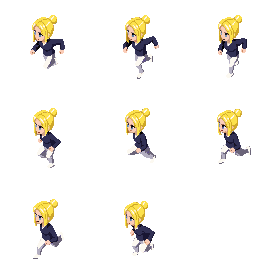
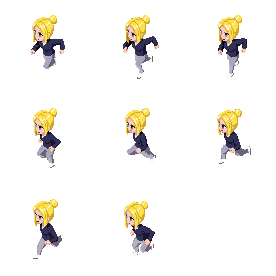
sector 3 changes

diff --git a/src/render.cpp b/src/render.cpp
@@ -27,6 +27,7 @@ std::unordered_map<uint32_t, int> randomOffsetsTrees;
 std::unordered_map<uint32_t, int> randomOffsetsGround;
 // key, index of decoration. You need to know key to SpritesheetConfig. Else wrong texture, jsut random index of spritesheet.
 std::unordered_map<uint32_t, int> decorationIndexMap;
+std::unordered_set<uint32_t> sector3Cutouts;
 // std::unordered_map<uint32_t, int> vineDecorationIndexMap;
 // Per-tile, per-row random spritesheet frame index to avoid cross-category leakage.
 static std::unordered_map<uint32_t, std::array<int, ssi::maxSideLength>> spritesheetIndexMap;
@@ -58,7 +59,7 @@ static const SDL_FRect& get_cached_spritesheet_src(int col, int row) {
 static SDL_FRect get_wall_spritesheet_src(int index) {
     const float w = 144.0f;
     const float h = 144.0f;
-    int c = std::max(0, index % 10);
+    int c = std::max(0, index % 14);
     return SDL_FRect{ static_cast<float>(c) * w, 0.0f, w, h };
 }
 
@@ -289,7 +290,7 @@ void TerrainClass::create_renderQ_walls() {
                     alpha = inFrontAlpha;
                 }
 
-                int idx = ensure_spritesheet_index_for_row(gridPos, 0, 0, 9);
+                int idx = ensure_spritesheet_index_for_row(gridPos, 0, 0, 14);
                 SDL_FRect src = get_wall_spritesheet_src(idx);
                 renderQueue.push_back(
                     RenderQueueItem(destTile.y + halfTile + 1, src, destTile, &textureMap[Map::WALL_SPRITESHEET], alpha)
@@ -299,16 +300,20 @@ void TerrainClass::create_renderQ_walls() {
             case Map::SECTOR_1_WALL_VAL: {
                 destTile.y -= halfTile;
 
-                int idx = ensure_spritesheet_index_for_row(gridPos, 5, 0, 5);
-                const SDL_FRect& src = get_cached_spritesheet_src(idx, 5);
+                // int idx = ensure_spritesheet_index_for_row(gridPos, 5, 0, 5);
+                // const SDL_FRect& src = get_cached_spritesheet_src(idx, 5);
 
                 if (shiftedWalls.find(key) != shiftedWalls.end()) {
                     alpha = inFrontAlpha;
                 }
-
+                int idx = ensure_spritesheet_index_for_row(gridPos, 0, 0, 9);
+                const SDL_FRect& src = get_wall_spritesheet_src(idx);
                 renderQueue.push_back(
-                    RenderQueueItem(destTile.y, src, destTile, &textureMap[Map::SPRITESHEET], alpha)
+                    RenderQueueItem(destTile.y, src, destTile, &textureMap[Map::WALL_SPRITESHEET], alpha)
                 );
+                // renderQueue.push_back(
+                //     RenderQueueItem(destTile.y, src, destTile, &textureMap[Map::SPRITESHEET], alpha)
+                // );
                 break;
             }
             case Map::SECTOR_2_WALL_VAL: {
@@ -320,7 +325,7 @@ void TerrainClass::create_renderQ_walls() {
                 destTile.x += (xr / 4);
                 destTile.w -= (xr / 2);
                 destTile.h -= (xr / 2);
-                int idx = ensure_spritesheet_index_for_row(gridPos, 0, 0, 9);
+                int idx = ensure_spritesheet_index_for_row(gridPos, 0, 0, 14);
                 const SDL_FRect& src = get_wall_spritesheet_src(idx);
                 renderQueue.push_back(
                     RenderQueueItem(destTile.y, src, destTile, &textureMap[Map::WALL_SPRITESHEET], alpha)
@@ -328,23 +333,27 @@ void TerrainClass::create_renderQ_walls() {
                 break;
             }
             case Map::SECTOR_3_WALL_VAL: {
-                if (unchangableWalls_S3.find(gridPos) == unchangableWalls_S3.end()) return;
-                // create walls
+                if (unchangableWalls_S3.find(gridPos) == unchangableWalls_S3.end()) break;
+
                 destTile.y -= halfTile;
-                SDL_FRect src;
-                int idx = 0;
-                idx = ensure_spritesheet_index_for_row(gridPos, 0, 0, 9);
-                src = get_wall_spritesheet_src(idx);
-                renderQueue.push_back(
-                    RenderQueueItem(destTile.y, src, destTile, &textureMap[Map::WALL_SPRITESHEET], alpha)
-                );
-                // create random 2nd story walls based on decoration.
+                if (sector3Cutouts.find(key) == sector3Cutouts.end()) {
+                    // simple gravitational support: ensure tile below exists and
+                    // is ground or wall so the cutout won't float
+                    // if (row + 1 >= 0 && row + 1 < mapSize) {
+                    //     // int below = map[row + 1][column];
+                    //     cutoutSupported = true;
+                    // }
+                    int idxTop = ensure_spritesheet_index_for_row(gridPos, 0, 0, 14);
+                    SDL_FRect srcTop = get_wall_spritesheet_src(idxTop);
+                    renderQueue.push_back(RenderQueueItem(destTile.y, srcTop, destTile, &textureMap[Map::WALL_SPRITESHEET], alpha));
+
+                }
+
                 destTile.y -= halfTile;
-                idx = ensure_spritesheet_index_for_row(gridPos, 0, 0, 9);
-                src = get_wall_spritesheet_src(idx);
-                renderQueue.push_back(
-                    RenderQueueItem(destTile.y + halfTile + 1, src, destTile, &textureMap[Map::WALL_SPRITESHEET], alpha)
-                );
+                int idxBot = ensure_spritesheet_index_for_row(gridPos, 0, 0, 14);
+                SDL_FRect srcBot = get_wall_spritesheet_src(idxBot);
+                renderQueue.push_back(RenderQueueItem(destTile.y + halfTile + 1, srcBot, destTile, &textureMap[Map::WALL_SPRITESHEET], alpha));
+
                 break;
             }
             }
@@ -399,12 +408,12 @@ void TerrainClass::create_renderQ_decoration(SDL_Renderer* renderer) {
                 break;
             }
             case Map::SECTOR_3_WALL_VAL: {
-                destTile.y -= halfTile;
-                auto it = decorationIndexMap.find(key);
-                if (it == decorationIndexMap.end()) break; // no decoration for this tile
-                int idx = it->second;
-                const SDL_FRect& src = get_cached_spritesheet_src(idx, ssi::coverMaze.row);
-                renderQueue.push_back(RenderQueueItem(destTile.y + halfTile + 1, src, destTile, &textureMap[Map::SPRITESHEET], alpha));
+                // destTile.y -= halfTile;
+                // auto it = decorationIndexMap.find(key);
+                // if (it == decorationIndexMap.end()) break; // no decoration for this tile
+                // int idx = it->second;
+                // const SDL_FRect& src = get_cached_spritesheet_src(idx, ssi::coverMaze.row);
+                // renderQueue.push_back(RenderQueueItem(destTile.y + halfTile + 1, src, destTile, &textureMap[Map::SPRITESHEET], alpha));
                 break;
             }
             }
@@ -571,6 +580,11 @@ void TerrainClass::render_entity_grid_highlights(SDL_Renderer* renderer) {
 
             SDL_SetRenderDrawColor(renderer, 255, 120, 255, 255);
             if (wallValues.find(gridValue) == wallValues.end()) {
+                SDL_SetRenderDrawColor(renderer, 0, 255, 0, 255);
+            }
+
+            uint32_t key_br = make_grid_key(row, column);
+            if (sector3Cutouts.find(key_br) != sector3Cutouts.end()) {
                 SDL_SetRenderDrawColor(renderer, 0, 255, 0, 255);
             }
 

diff --git a/src/map.cpp b/src/map.cpp
@@ -302,10 +302,6 @@ namespace MapGenerator {
     }
 
     void generate_decorations() {
-        // Precompute decoration indices so renderer can just render.
-
-        decorationIndexMap.clear();
-
         for (int row = 0; row < mapSize; row++) {
             for (int column = 0; column < mapSize; column++) {
 
@@ -320,7 +316,32 @@ namespace MapGenerator {
                     break;
                 }
                                           // case Map::MAZE_GROUND_CUBE: {
-                case Map::SECTOR_3_WALL_VAL:
+                case Map::SECTOR_3_WALL_VAL: {
+                    if (rand() % mazeDecoMod == 0) {
+                        int idx = ensure_spritesheet_index_for_row(gridPos, ssi::coverMaze);
+                        decorationIndexMap.try_emplace(key, idx);
+                    }
+                    // persistent cutout mapping: 1 in sector3CutoutMod tiles
+                    if (rand() % sector3CutoutMod == 0) {
+                        // Only add cutout if the tile has support on at least two orthogonal sides
+                        int row = gridPos.first;
+                        int col = gridPos.second;
+                        auto is_wall = [&](int r, int c) -> bool {
+                            if (r < 0 || r >= mapSize || c < 0 || c >= mapSize) return false;
+                            return wallValues.count(map[r][c]) > 0;
+                        };
+                        int supportCount = 0;
+                        if (is_wall(row - 1, col)) ++supportCount; // north
+                        if (is_wall(row + 1, col)) ++supportCount; // south
+                        if (is_wall(row, col - 1)) ++supportCount; // west
+                        if (is_wall(row, col + 1)) ++supportCount; // east
+
+                        if (supportCount >= 2) {
+                            sector3Cutouts.insert(key);
+                        }
+                    }
+                    break;
+                }
                 case Map::SECTOR_2_PATHWAY:
                 case Map::SECTOR_3_PATHWAY: {
                     if (rand() % mazeDecoMod == 0) {

diff --git a/src/collision.cpp b/src/collision.cpp
@@ -5,6 +5,7 @@
 #include "collision.hpp"
 #include "isometric_calc.hpp"
 #include "player.hpp"
+#include "render.hpp"
 
 // return boolean 0 or 1
 // 1 == collision detected
@@ -22,20 +23,33 @@ bool check_collision(int map[mapSize][mapSize], struct PlayerData& player, SDL_F
     int grid_y_top = static_cast<int>(tempRect.y / tileSize);
     int grid_y_bottom = static_cast<int>((tempRect.y + tempRect.h) / tileSize);
 
-    if (std::find(player.collision_array.begin(), player.collision_array.end(),
-        map[grid_y_top][grid_x_left]) != player.collision_array.end()) {
+    // For each corner: if the grid value is a collidable value and
+    // the grid is NOT in sector3Cutouts, count it as a collision.
+    uint32_t key_tl = make_grid_key(grid_y_top, grid_x_left);
+    int val_tl = map[grid_y_top][grid_x_left];
+    if (player.collision_array.find(val_tl) != player.collision_array.end()
+        && sector3Cutouts.find(key_tl) == sector3Cutouts.end()) {
         return true;
     }
-    else if (std::find(player.collision_array.begin(), player.collision_array.end(),
-        map[grid_y_top][grid_x_right]) != player.collision_array.end()) {
+
+    uint32_t key_tr = make_grid_key(grid_y_top, grid_x_right);
+    int val_tr = map[grid_y_top][grid_x_right];
+    if (player.collision_array.find(val_tr) != player.collision_array.end()
+        && sector3Cutouts.find(key_tr) == sector3Cutouts.end()) {
         return true;
     }
-    else if (std::find(player.collision_array.begin(), player.collision_array.end(),
-        map[grid_y_bottom][grid_x_left]) != player.collision_array.end()) {
+
+    uint32_t key_bl = make_grid_key(grid_y_bottom, grid_x_left);
+    int val_bl = map[grid_y_bottom][grid_x_left];
+    if (player.collision_array.find(val_bl) != player.collision_array.end()
+        && sector3Cutouts.find(key_bl) == sector3Cutouts.end()) {
         return true;
     }
-    else if (std::find(player.collision_array.begin(), player.collision_array.end(),
-        map[grid_y_bottom][grid_x_right]) != player.collision_array.end()) {
+
+    uint32_t key_br = make_grid_key(grid_y_bottom, grid_x_right);
+    int val_br = map[grid_y_bottom][grid_x_right];
+    if (player.collision_array.find(val_br) != player.collision_array.end() 
+        && sector3Cutouts.find(key_br) == sector3Cutouts.end()) {
         return true;
     }
     else {

diff --git a/src/raycast.cpp b/src/raycast.cpp
@@ -1,11 +1,3 @@
-#include "map.hpp"
-#include "player.hpp"
-#include "raycast.hpp"
-#include "isometric_calc.hpp"
-#include "game.hpp"
-#include "vision.hpp"
-#include "offset.hpp"
-
 #include <SDL3/SDL.h>
 #include <iostream>
 #include <set>
@@ -19,6 +11,15 @@
 #include <condition_variable>
 #include <atomic>
 #include <vector>
+
+#include "map.hpp"
+#include "player.hpp"
+#include "raycast.hpp"
+#include "isometric_calc.hpp"
+#include "game.hpp"
+#include "vision.hpp"
+#include "offset.hpp"
+#include "render.hpp"
 
 namespace Raycast {
     bool enabled = false;
@@ -113,7 +114,9 @@ namespace Raycast {
                 distance = rayLength1D.y * tileSize;
                 rayLength1D.y += rayUnitStep.y;
             }
-            if (player.collision_array.find(map[gridY][gridX]) != player.collision_array.end()) {
+
+            uint32_t key_br = make_grid_key(gridY, gridX);
+            if (player.collision_array.find(map[gridY][gridX]) != player.collision_array.end() && sector3Cutouts.find(key_br) == sector3Cutouts.end()) {
                 localEndpoints.insert({ gridY, gridX });
                 extraReach = true;
                 break;

diff --git a/src/game.cpp b/src/game.cpp
@@ -221,7 +221,9 @@ void rescale_world(float oldTs, float newTs) {
     int gy = static_cast<int>((player.y + player.size / 2.0f) / oldTs);
     player.x = gx * newTs;
     player.y = gy * newTs;
-    player.size = newTs;
+
+    float ratio = static_cast<float>(player.size / oldTs);
+    player.size = newTs * ratio;
     player.grid = { gx, gy };
     SDL_FPoint iso = to_isometric_coordinate(player.x, player.y);
     player.rect.x = iso.x;

diff --git a/src/player.cpp b/src/player.cpp
@@ -15,7 +15,7 @@ const SDL_Point spawnpointGrid = { x: mapSize / 2, y : mapSize / 2 };
 bool groundOffsetAdded = false;
 
 // Suggested constants (adjust to taste)
-const float MAX_SPEED = 400.0f; // normal value 400.0f
+const float MAX_SPEED = 4000.0f; // normal value 400.0f
 const float MAX_WALK_SPEED = MAX_SPEED / 4;
 const float ACCEL = 2000.0f;    // High value for snappy feel
 const float FRICTION = 1500.0f; // How fast player slides to a stop
@@ -273,7 +273,7 @@ namespace PlayerNS {
 
         player.state = PlayerState::Idle;
         player.movementSpeed = defaultMovementSpeed;
-        player.size = tileSize;
+        player.size = tileSize * 0.75;
         player.grid = { spawnpointGrid.x, spawnpointGrid.y };
         player.x = static_cast<float>(spawnpointGrid.x * tileSize);
         player.y = static_cast<float>(spawnpointGrid.y * tileSize);

diff --git a/include/map.hpp b/include/map.hpp
@@ -311,6 +311,8 @@ const int mazeDecoMod = 4;
 const int groundDecoMod = 4;
 const int vinesDecoMod = 4;
 const int groundMod = 12;
+// how often a sector3 wall will have a lower-wall cutout (1 in N)
+const int sector3CutoutMod = 3;
 
 namespace MapNS {
     void increase_tilesize();

diff --git a/include/render.hpp b/include/render.hpp
@@ -16,6 +16,7 @@ extern std::unordered_map<uint32_t, int> randomOffsetsTrees;
 extern std::unordered_map<uint32_t, int> randomOffsetsGround;
 extern std::set<std::pair<int, int>> gridVineChecked;
 extern std::unordered_map<uint32_t, int> decorationIndexMap;
+extern std::unordered_set<uint32_t> sector3Cutouts;
 
 // extern std::unordered_map<uint32_t, int> vineDecorationIndexMap;
 